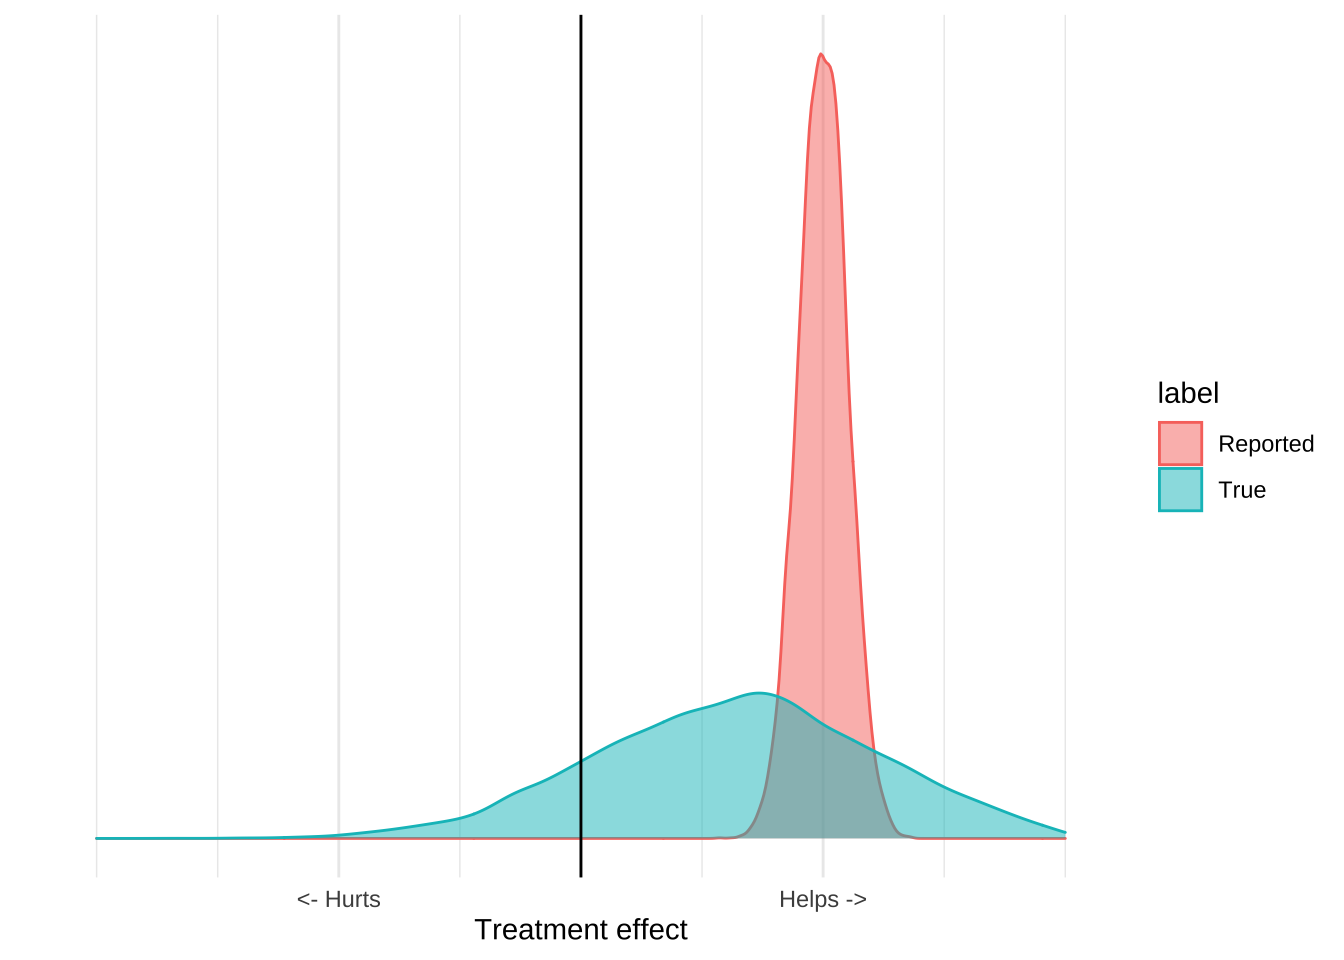
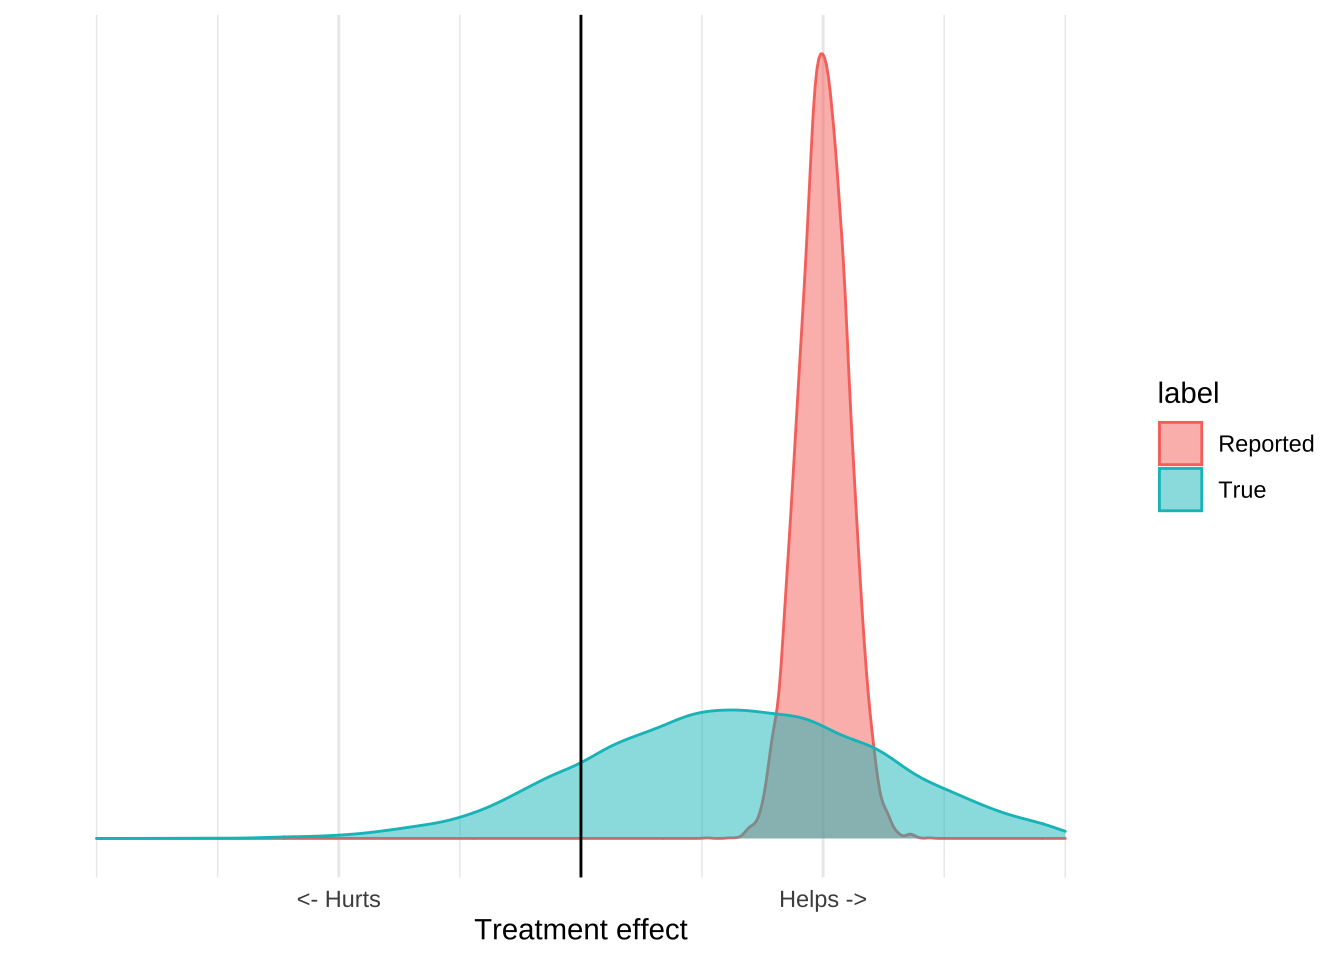
rebuild

diff --git a/public/posts/2019-04-19-technical-debt-in-data-science/index.html b/public/posts/2019-04-19-technical-debt-in-data-science/index.html
@@ -22,10 +22,10 @@
 
 <meta name="twitter:card" content="summary"/>
 <meta name="twitter:title" content="Technical debt for data scientists"/>
-<meta name="twitter:description" content="Technical debt is the process of avoiding work today by promising to do work tomorrow. A team might identify that there’s a small time window for a particular change to be implemented and the only way they can hit that window is to take shortcuts in the development process. They might soberly calculate that the benefits of getting something done now are worth the costs of fixing it later. This kind of technical debt is similar to taking out a mortgage or small business loan."/>
+<meta name="twitter:description" content="Technical debt is the process of avoiding work today by promising to do work tomorrow. A team might identify that there’s a small time window for a particular change to be implemented and the only way they can hit that window is to take shortcuts in the development process. They might soberly calculate that the benefits of getting something done now are worth the costs of fixing it later."/>
 
 <meta property="og:title" content="Technical debt for data scientists" />
-<meta property="og:description" content="Technical debt is the process of avoiding work today by promising to do work tomorrow. A team might identify that there’s a small time window for a particular change to be implemented and the only way they can hit that window is to take shortcuts in the development process. They might soberly calculate that the benefits of getting something done now are worth the costs of fixing it later. This kind of technical debt is similar to taking out a mortgage or small business loan." />
+<meta property="og:description" content="Technical debt is the process of avoiding work today by promising to do work tomorrow. A team might identify that there’s a small time window for a particular change to be implemented and the only way they can hit that window is to take shortcuts in the development process. They might soberly calculate that the benefits of getting something done now are worth the costs of fixing it later." />
 <meta property="og:type" content="article" />
 <meta property="og:url" content="/posts/2019-04-19-technical-debt-in-data-science/" />
 <meta property="article:published_time" content="2019-04-19T00:00:00+00:00" />
@@ -186,6 +186,8 @@ Built with <a href="https://gohugo.io">Hugo</a> ❤ <a href="https://github.c
   
   <div class="post">
     
+<link href="/rmarkdown-libs/anchor-sections/anchor-sections.css" rel="stylesheet" />
+<script src="/rmarkdown-libs/anchor-sections/anchor-sections.js"></script>
 
 
 <p>Technical debt is the process of avoiding work today by promising to do work tomorrow. A team might identify that there’s a small time window for a particular change to be implemented and the only way they can hit that window is to take shortcuts in the development process. They might soberly calculate that the benefits of getting something done now are worth the costs of fixing it later. This kind of technical debt is similar to taking out a mortgage or small business loan. You don’t have the money to realize an opportunity right now, so you borrow that money even though it’s going to cost more down the road. The lifetime cost of the investment goes up, but at least you get to make the investment.</p>

diff --git a/public/posts/good-decisions-bad-data/index.html b/public/posts/good-decisions-bad-data/index.html
@@ -221,7 +221,7 @@ Observational or ecological data can’t do this effectively so the true distrib
 An observational study might report a highly significant result, but because there are lots of potential causal mechanisms which are not controlled for it’s a poor estimate of what’s actually going on in the world.
 The result of these confounders is the numbers reported by the study will usually be overly precise.
 The true distribution of effects is much larger than that reported by the study.</p>
-<pre><code>## Warning: Removed 131 rows containing non-finite values (stat_density).</code></pre>
+<pre><code>## Warning: Removed 148 rows containing non-finite values (stat_density).</code></pre>
 <p><img src="/posts/good-decisions-bad-data_files/figure-html/unnamed-chunk-3-1.png" width="672" /></p>
 <p>The important thing is that all evidence whether it be experimental, observational, or ecological has this problem.
 What generally makes randomized trials “good” and ecological trials “bad” is that for clinical trials the real distribution will be close to the reported distribution, while for ecological study it will be much wider.

diff --git a/content/posts/good-decisions-bad-data.html b/content/posts/good-decisions-bad-data.html
@@ -41,7 +41,7 @@ Observational or ecological data can’t do this effectively so the true distrib
 An observational study might report a highly significant result, but because there are lots of potential causal mechanisms which are not controlled for it’s a poor estimate of what’s actually going on in the world.
 The result of these confounders is the numbers reported by the study will usually be overly precise.
 The true distribution of effects is much larger than that reported by the study.</p>
-<pre><code>## Warning: Removed 131 rows containing non-finite values (stat_density).</code></pre>
+<pre><code>## Warning: Removed 148 rows containing non-finite values (stat_density).</code></pre>
 <p><img src="/posts/good-decisions-bad-data_files/figure-html/unnamed-chunk-3-1.png" width="672" /></p>
 <p>The important thing is that all evidence whether it be experimental, observational, or ecological has this problem.
 What generally makes randomized trials “good” and ecological trials “bad” is that for clinical trials the real distribution will be close to the reported distribution, while for ecological study it will be much wider.

diff --git a/public/posts/r_for_excel_users/index.html b/public/posts/r_for_excel_users/index.html
@@ -186,6 +186,8 @@ Built with <a href="https://gohugo.io">Hugo</a> ❤ <a href="https://github.c
   
   <div class="post">
     
+<link href="/rmarkdown-libs/anchor-sections/anchor-sections.css" rel="stylesheet" />
+<script src="/rmarkdown-libs/anchor-sections/anchor-sections.js"></script>
 
 
 <p>Like most people, I first learned to work with numbers through an Excel spreadsheet. After graduating with an undergraduate philosophy degree, I somehow convinced a medical device marketing firm to give me a job writing Excel reports on the orthopedic biomaterials market. When I first started, I remember not knowing how to anything, but after a few months I became fairly proficient with the tool, and was able to build all sorts of useful models. When you think about it, this is an amazing feature of Excel. Every day, all over the world, people open up a spreadsheet to do some data entry and then, bit by bit, learn to do increasingly complex analytical tasks. Excel is a master at teaching people how to use Excel.</p>

diff --git a/content/posts/r_for_excel_users.html b/content/posts/r_for_excel_users.html
@@ -3,6 +3,8 @@ title: "R for Excel Users"
 date: "2017-02-02T21:48:51-07:00"
 ---
 
+<link href="/rmarkdown-libs/anchor-sections/anchor-sections.css" rel="stylesheet" />
+<script src="/rmarkdown-libs/anchor-sections/anchor-sections.js"></script>
 
 
 <p>Like most people, I first learned to work with numbers through an Excel spreadsheet. After graduating with an undergraduate philosophy degree, I somehow convinced a medical device marketing firm to give me a job writing Excel reports on the orthopedic biomaterials market. When I first started, I remember not knowing how to anything, but after a few months I became fairly proficient with the tool, and was able to build all sorts of useful models. When you think about it, this is an amazing feature of Excel. Every day, all over the world, people open up a spreadsheet to do some data entry and then, bit by bit, learn to do increasingly complex analytical tasks. Excel is a master at teaching people how to use Excel.</p>

diff --git a/public/posts/learning_data_science/index.html b/public/posts/learning_data_science/index.html
@@ -186,6 +186,8 @@ Built with <a href="https://gohugo.io">Hugo</a> ❤ <a href="https://github.c
   
   <div class="post">
     
+<link href="/rmarkdown-libs/anchor-sections/anchor-sections.css" rel="stylesheet" />
+<script src="/rmarkdown-libs/anchor-sections/anchor-sections.js"></script>
 
 
 <p>I have a pretty strange background for a data scientist. In my career I’ve sold electric razors, worked on credit derivatives during the 2008 financial crash, written market reports on orthopaedic biomaterials, and practiced law. I started programming in R during law school, partly as a way to learn more about data visualization and partly to help analyze youth criminal justice data. Over time I came to enjoy programming more than law and decided to make the switch to data work about three years ago. Since then I’ve freelanced a bit, worked as a Data Scientist at Upworthy, and now am a Senior R Developer at a survey company called Crunch.io.</p>

diff --git a/content/posts/2019-04-19-technical-debt-in-data-science.html b/content/posts/2019-04-19-technical-debt-in-data-science.html
@@ -5,6 +5,8 @@ date: '2019-04-19'
 output: html_document
 ---
 
+<link href="/rmarkdown-libs/anchor-sections/anchor-sections.css" rel="stylesheet" />
+<script src="/rmarkdown-libs/anchor-sections/anchor-sections.js"></script>
 
 
 <p>Technical debt is the process of avoiding work today by promising to do work tomorrow. A team might identify that there’s a small time window for a particular change to be implemented and the only way they can hit that window is to take shortcuts in the development process. They might soberly calculate that the benefits of getting something done now are worth the costs of fixing it later. This kind of technical debt is similar to taking out a mortgage or small business loan. You don’t have the money to realize an opportunity right now, so you borrow that money even though it’s going to cost more down the road. The lifetime cost of the investment goes up, but at least you get to make the investment.</p>

diff --git a/content/posts/learning_data_science.html b/content/posts/learning_data_science.html
@@ -5,6 +5,8 @@ date: '2017-08-29'
 output: html_document
 ---
 
+<link href="/rmarkdown-libs/anchor-sections/anchor-sections.css" rel="stylesheet" />
+<script src="/rmarkdown-libs/anchor-sections/anchor-sections.js"></script>
 
 
 <p>I have a pretty strange background for a data scientist. In my career I’ve sold electric razors, worked on credit derivatives during the 2008 financial crash, written market reports on orthopaedic biomaterials, and practiced law. I started programming in R during law school, partly as a way to learn more about data visualization and partly to help analyze youth criminal justice data. Over time I came to enjoy programming more than law and decided to make the switch to data work about three years ago. Since then I’ve freelanced a bit, worked as a Data Scientist at Upworthy, and now am a Senior R Developer at a survey company called Crunch.io.</p>

diff --git a/public/posts/ui_data_analysis/index.html b/public/posts/ui_data_analysis/index.html
@@ -186,6 +186,8 @@ Built with <a href="https://gohugo.io">Hugo</a> ❤ <a href="https://github.c
   
   <div class="post">
     
+<link href="/rmarkdown-libs/anchor-sections/anchor-sections.css" rel="stylesheet" />
+<script src="/rmarkdown-libs/anchor-sections/anchor-sections.js"></script>
 
 
 <p>Over the past couple of months, I’ve been rebuilding the <a href="http://app.shambhala.org">Shambhala Meditation Timer</a> using React Native and Redux. The idea behind the Shambhala app was to create a kind of modular framework for building meditation timers in order to allow people to create complex timers out of simple components. The three build blocks for a timer are time intervals, gong sounds, and recorded audio contemplations, and the user can stack these building blocks to create whatever kind of meditation session they want.</p>

diff --git a/public/posts/remote_work/index.html b/public/posts/remote_work/index.html
@@ -186,6 +186,8 @@ Built with <a href="https://gohugo.io">Hugo</a> ❤ <a href="https://github.c
   
   <div class="post">
     
+<link href="/rmarkdown-libs/anchor-sections/anchor-sections.css" rel="stylesheet" />
+<script src="/rmarkdown-libs/anchor-sections/anchor-sections.js"></script>
 
 
 <p>My last job was as a data scientist at Upworthy, which is a 100% remote company. Prior to starting the position I was worried about whether I could be happy and productive on a remote team. I wondered how project planning would work, whether it would be terribly lonely, and how communication would function when things got hectic. What I discovered is that the company was one of the more efficient and friendly places that I’ve worked, and I think the changes that they have made to accommodate remote work deserve much of the credit.</p>

diff --git a/content/posts/remote_work.html b/content/posts/remote_work.html
@@ -3,6 +3,8 @@ title: "Why you should work remotely, even if you're not remote"
 date: '2017-05-03T21:48:51-07:00'
 ---
 
+<link href="/rmarkdown-libs/anchor-sections/anchor-sections.css" rel="stylesheet" />
+<script src="/rmarkdown-libs/anchor-sections/anchor-sections.js"></script>
 
 
 <p>My last job was as a data scientist at Upworthy, which is a 100% remote company. Prior to starting the position I was worried about whether I could be happy and productive on a remote team. I wondered how project planning would work, whether it would be terribly lonely, and how communication would function when things got hectic. What I discovered is that the company was one of the more efficient and friendly places that I’ve worked, and I think the changes that they have made to accommodate remote work deserve much of the credit.</p>

diff --git a/content/posts/ui_data_analysis.html b/content/posts/ui_data_analysis.html
@@ -3,6 +3,8 @@ title: "Data Visualization and UI design"
 date: '2017-04-13T21:48:51-07:00'
 ---
 
+<link href="/rmarkdown-libs/anchor-sections/anchor-sections.css" rel="stylesheet" />
+<script src="/rmarkdown-libs/anchor-sections/anchor-sections.js"></script>
 
 
 <p>Over the past couple of months, I’ve been rebuilding the <a href="http://app.shambhala.org">Shambhala Meditation Timer</a> using React Native and Redux. The idea behind the Shambhala app was to create a kind of modular framework for building meditation timers in order to allow people to create complex timers out of simple components. The three build blocks for a timer are time intervals, gong sounds, and recorded audio contemplations, and the user can stack these building blocks to create whatever kind of meditation session they want.</p>
